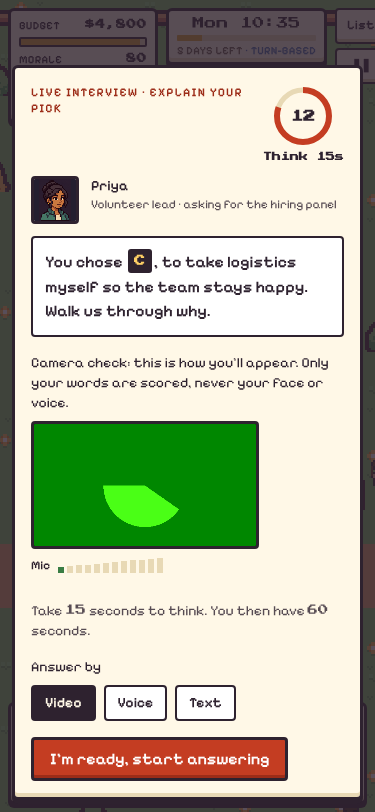
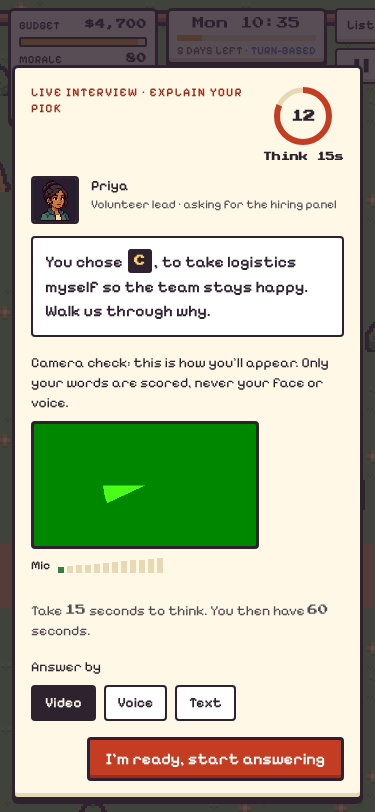
Checkpoint: game modal keeps the primary action bottom right (Retake left of Submit); retakes read 'Answered on the second take' on the card
Claude-Session: https://claude.ai/code/session_0154mYPUEnFKQvVKtNCw59qM

Changed region(s): [[0.0, 0.8621, 0.9973, 1.0], [0.2933, 0.585, 0.4693, 0.6466], [0.968, 0.5542, 1.0, 0.6158]]

diff --git a/components/checkpoint/Checkpoint.tsx b/components/checkpoint/Checkpoint.tsx
@@ -260,7 +260,7 @@ export function Checkpoint(p: Props) {
     const integrity: IntegrityNote[] = [];
     const lost = Math.round(focusLostMs.current / 1000);
     if (lost > 0) integrity.push({ checkpointId: p.id, kind: "focus_lost", detail: `Window lost focus for ${lost} second${lost === 1 ? "" : "s"} during the answer` });
-    if (retakes > 0) integrity.push({ checkpointId: p.id, kind: "retake_used", detail: "Retake used" });
+    if (retakes > 0) integrity.push({ checkpointId: p.id, kind: "retake_used", detail: "Answered on the second take" });
     // Fixing misheard words is allowed before submit (C7.2 forbids edits after). Recruiters see that it happened and the original.
     const recognized = mode === "text" ? undefined : result.transcript.text;
     const changed = recognized === undefined || transcript.text === recognized ? 0 : wordsChanged(recognized, transcript.text);
@@ -297,6 +297,12 @@ export function Checkpoint(p: Props) {
     e.preventDefault();
     if (e.type === "paste") setPasteBlocked(true);
   };
+
+  const retakeBtn = retakes < MAX_RETAKES && (
+    <button onClick={retake} className={s.plain}>
+      Retake ({MAX_RETAKES - retakes} left)
+    </button>
+  );
 
   const label = p.title ?? (p.kind === "real_life" ? "Real-life checkpoint" : p.kind === "follow_up" ? "One follow-up" : "Checkpoint");
   const recording = phase === "answer" && mode !== "text";
@@ -446,9 +452,11 @@ export function Checkpoint(p: Props) {
                 {deviceMsg}
               </p>
             )}
-            <button onClick={() => void beginAnswer()} className={s.primary} autoFocus>
-              I&apos;m ready, start answering
-            </button>
+            <div className={cn(game && "flex justify-end")}>
+              <button onClick={() => void beginAnswer()} className={s.primary} autoFocus>
+                I&apos;m ready, start answering
+              </button>
+            </div>
           </div>
         )}
 
@@ -483,9 +491,11 @@ export function Checkpoint(p: Props) {
                 {deviceMsg}
               </p>
             )}
-            <button onClick={finishAnswer} className={s.primary} disabled={mode === "text" && !text.trim()} autoFocus={mode !== "text"}>
-              Done
-            </button>
+            <div className={cn(game && "flex justify-end")}>
+              <button onClick={finishAnswer} className={s.primary} disabled={mode === "text" && !text.trim()} autoFocus={mode !== "text"}>
+                Done
+              </button>
+            </div>
           </div>
         )}
 
@@ -526,15 +536,13 @@ export function Checkpoint(p: Props) {
                 )}
               </div>
             )}
-            <div className="flex flex-wrap gap-2">
+            {/* In the game the primary action sits bottom right like every game modal, with Retake to its left. */}
+            <div className={cn("flex flex-wrap gap-2", game && "justify-end")}>
+              {game && retakeBtn}
               <button onClick={submit} className={s.primary} autoFocus>
                 Submit
               </button>
-              {retakes < MAX_RETAKES && (
-                <button onClick={retake} className={s.plain}>
-                  Retake ({MAX_RETAKES - retakes} left)
-                </button>
-              )}
+              {!game && retakeBtn}
             </div>
           </div>
         )}

diff --git a/tests/e2e/checkpoint-media.spec.ts b/tests/e2e/checkpoint-media.spec.ts
@@ -72,8 +72,9 @@ test("speech restarts after the browser stops it, shows live captions, keeps eve
   await scriptedSpeech(page, [
     [
       { at: 200, type: "interim", text: "I cut the" },
-      { at: 900, type: "final", text: "I cut the second weekend" },
-      { at: 1300, type: "end" }, // browser ends recognition by itself (silence)
+      // Interim words stay up for a few seconds so a slow test machine still sees them.
+      { at: 4000, type: "final", text: "I cut the second weekend" },
+      { at: 4400, type: "end" }, // browser ends recognition by itself (silence)
     ],
     [
       { at: 300, type: "interim", text: "because vendors" },
@@ -84,8 +85,8 @@ test("speech restarts after the browser stops it, shows live captions, keeps eve
   await expect(cp.getByTestId("mic-meter")).toBeVisible();
   await expect(cp.getByTestId("speech-status")).toHaveAttribute("data-speech", "listening");
   await expect(cp.getByTestId("interim")).toHaveText("I cut the");
-  await expect(cp.getByTestId("live-captions")).toContainText("I cut the second weekend");
-  await expect(cp.getByTestId("live-captions")).toContainText("because vendors were the draw", { timeout: 5000 });
+  await expect(cp.getByTestId("live-captions")).toContainText("I cut the second weekend", { timeout: 8000 });
+  await expect(cp.getByTestId("live-captions")).toContainText("because vendors were the draw", { timeout: 10_000 });
   expect(await page.evaluate(() => (window as unknown as { __recStarts: number }).__recStarts)).toBeGreaterThanOrEqual(2);
 
   await cp.getByRole("button", { name: "Done" }).click();
@@ -296,6 +297,19 @@ test("demo path: camera already allowed, the first checkpoint opens on camera wi
   // The think timer is already running: no extra click, no waiting on a prompt.
   await expect.poll(() => thinkLeft(page), { timeout: 5000 }).toBeLessThan(15);
   await expect(cp.getByRole("button", { name: /start answering/i })).toBeVisible();
+  // Game modals keep the primary action bottom right.
+  const card = (await cp.locator("> div").first().boundingBox())!;
+  const btn = (await cp.getByRole("button", { name: /start answering/i }).boundingBox())!;
+  expect(card.x + card.width - (btn.x + btn.width)).toBeLessThan(40);
+});
+
+test("recruiter card words a retake neutrally", async ({ page }, info) => {
+  test.skip(info.project.name !== "desktop", "one size is enough");
+  await page.goto("/demo/seed");
+  await expect(page.getByTestId("seeded")).toBeVisible();
+  await page.goto("/recruiter/card/att_demo_maya?challenge=ch_demo_energy");
+  await expect(page.getByTestId("integrity")).toContainText("Answered on the second take");
+  await expect(page.getByTestId("capability-card")).not.toContainText("Retake used");
 });
 
 test("demo path: camera and mic refused, the first checkpoint opens calmly in text", async ({ page }, info) => {

diff --git a/components/card/CapabilityCard.tsx b/components/card/CapabilityCard.tsx
@@ -245,7 +245,7 @@ export function CapabilityCard({
                     players.current[c.id] = h;
                   }}
                 />
-                {c.retakeUsed && <p className="text-xs text-muted-foreground">Retake used</p>}
+                {c.retakeUsed && <p className="text-xs text-muted-foreground">Answered on the second take</p>}
               </div>
             ))}
           </section>
@@ -325,7 +325,7 @@ export function CapabilityCard({
             <h2 id="int-h" className="font-medium">Integrity notes · For context, not scored</h2>
             <ul className="mt-1 list-disc pl-4">
               {card.integrity.map((n, i) => (
-                <li key={i}>{n.detail}</li>
+                <li key={i}>{integrityText(n)}</li>
               ))}
             </ul>
           </section>
@@ -335,4 +335,11 @@ export function CapabilityCard({
       <ResumeEvidence card={{ ...card, evidence }} onJump={jump} />
     </article>
   );
+}
+
+/** Neutral wording for integrity notes (older saved cards say "Retake used", which reads as a penalty). */
+export function integrityText(n: { kind: string; detail: string }) {
+  if (n.kind !== "retake_used") return n.detail;
+  const cp = /checkpoint (\d+)/i.exec(n.detail)?.[1];
+  return `Answered on the second take${cp ? ` (checkpoint ${cp})` : ""}`;
 }
